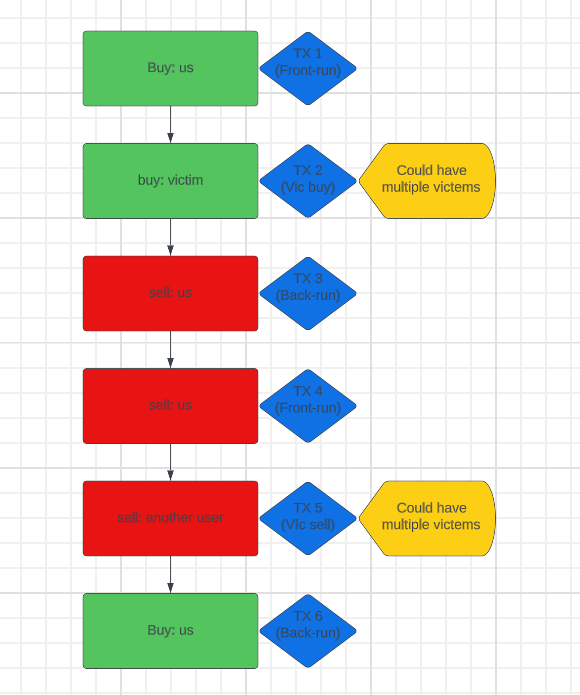
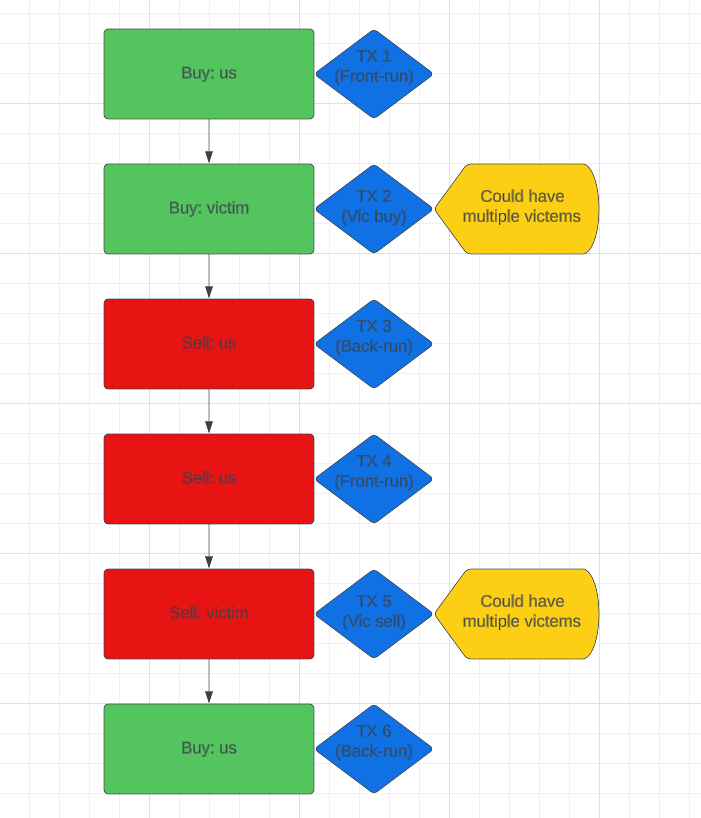
updated brainstorm_strategies

diff --git a/brainstorm_strategies.md b/brainstorm_strategies.md
@@ -1,23 +1,34 @@
-# My collection of thoughts and ideas on different kinds of new strategies in the DeFi space.
+# **My collection of thoughts and ideas on different kinds of new strategies in the DeFi space.**
 
-## Table of Contents
+## _Legenda_:
+
+- **_buy_** = buy order by the bot
+- **_sell_** = sell order by the bot
+- **_Vbuy_** = buy order by a victim
+- **_Vsell_** = sell order by a victim
+- **_Lsell_** = large sell order by the bot
+- **_Lbuy_** = large buy order by the bot
+
+## **Table of Contents**
 
 1. [New type of sandwhich ops](#new-type-of-sandwhich-ops)
-  - 1.1 [Deeper explaination of "New type of sandwhich ops"?](#deeper-explaination-of-new-type-of-sandwhich-ops)
-    - 1.1.1 [Front / Back / Front / back](#front--back--front--back)
-    - 1.1.2 [Visual representation of the idea:](#visual-representation-of-the-idea)
+
+- 1.1 [Deeper explaination of "New type of sandwhich ops"?](#deeper-explaination-of-new-type-of-sandwhich-ops)
+  - 1.1.1 [Visual representation of the idea](#visual-representation-of-the-idea)
+  - 1.1.2 [Chained Sandwhich](#explaintion-of-the-chained-sandwhich-sandwhich)
+
 2. [title](#title)
 3. [title](#title)
 
-## New type of sandwhich ops
+## **New type of sandwhich ops**
 
-- **New type of sandwhich ops**: Basically what this "New type" will be or do is that it takes advantage of normal usual sandwhiches chains them together e.g. It would do normal sandwhiching ***buy/buy/sell*** and then after when it detects a sell order from someone it would sell again so it would do this: ***sell/sell/buy***. So in the end it will look something like this: ***buy/buy/sell/sell/sell/buy***. 
+- **New type of sandwhich ops:** Basically what this "New type" will be or do is that it will take advantage of normal usual sandwiching, chains them together e.g. It would do normal sandwiching <span style="color: green;">**buy**</span>/<span style="color: purple;">**Vbuy**</span>/<span style="color: red;">**sell**</span> and then after when it detects a **sell** order from someone it would **sell** again so it would do this: <span style="color: red;">**sell**</span>/<span style="color: orange;">**Vsell**</span>/<span style="color: green;">**buy**</span>. So in the end it will look something like this: <span style="color: green;">**buy**</span>/<span style="color: purple;">**Vbuy**</span>/<span style="color: red;">**sell**</span>/<span style="color: red;">**sell**</span>/<span style="color: orange;">**Vsell**</span>/<span style="color: green;">**buy**</span>.
 
-### Deeper explaination of "New type of sandwhich ops"
+### **Deeper explaination of "New type of sandwhich ops"**
 
-- #### **Front / Back / Front / back**
-  - 
 - #### **Visual representation of the idea:**
-  - ##### ***the best image you will ever see***
-  - <img src="./markdown_images/chain-sandwhich.png"  width="350" height="400">
-  - ##### *Jeremy Clarkson's Voice:* Yes, very good. That's the best image you will ever see in your life.
+  ##### _This is a very basic example_
+  <img src="./markdown_images/chain-sandwhich.png"  width="320" height="400">
+- #### **Explaintion of the chained-sandwhich sandwhich**
+  - So again, the basic example shows that we can <span style="color: green;">**buy**</span>/<span style="color: purple;">**Vbuy**</span>/<span style="color: red;">**sell**</span>/<span style="color: red;">**sell**</span>/<span style="color: orange;">**Vsell**</span>/<span style="color: green;">**buy**</span>. But we can expand this depending on the transactions waiting in the mempool. Let's say we see a lot of buying transactions and a lot of selling transactions for a specific token. In this case, we can then do this:
+    <span style="color: green;">**buy**</span>/<span style="color: purple;">**Vbuy**</span>/<span style="color: purple;">**Vbuy**</span>/<span style="color: purple;">**Vbuy**</span>/<span style="color: purple;">**Vbuy**</span>/<span style="color: purple;">**Vbuy**</span>/<span style="color: red;">**Lsell**</span>/<span style="color: orange;">**Vsell**</span>/<span style="color: orange;">**Vsell**</span>/<span style="color: orange;">**Vsell**</span>/<span style="color: green;">**Lbuy**</span>.
